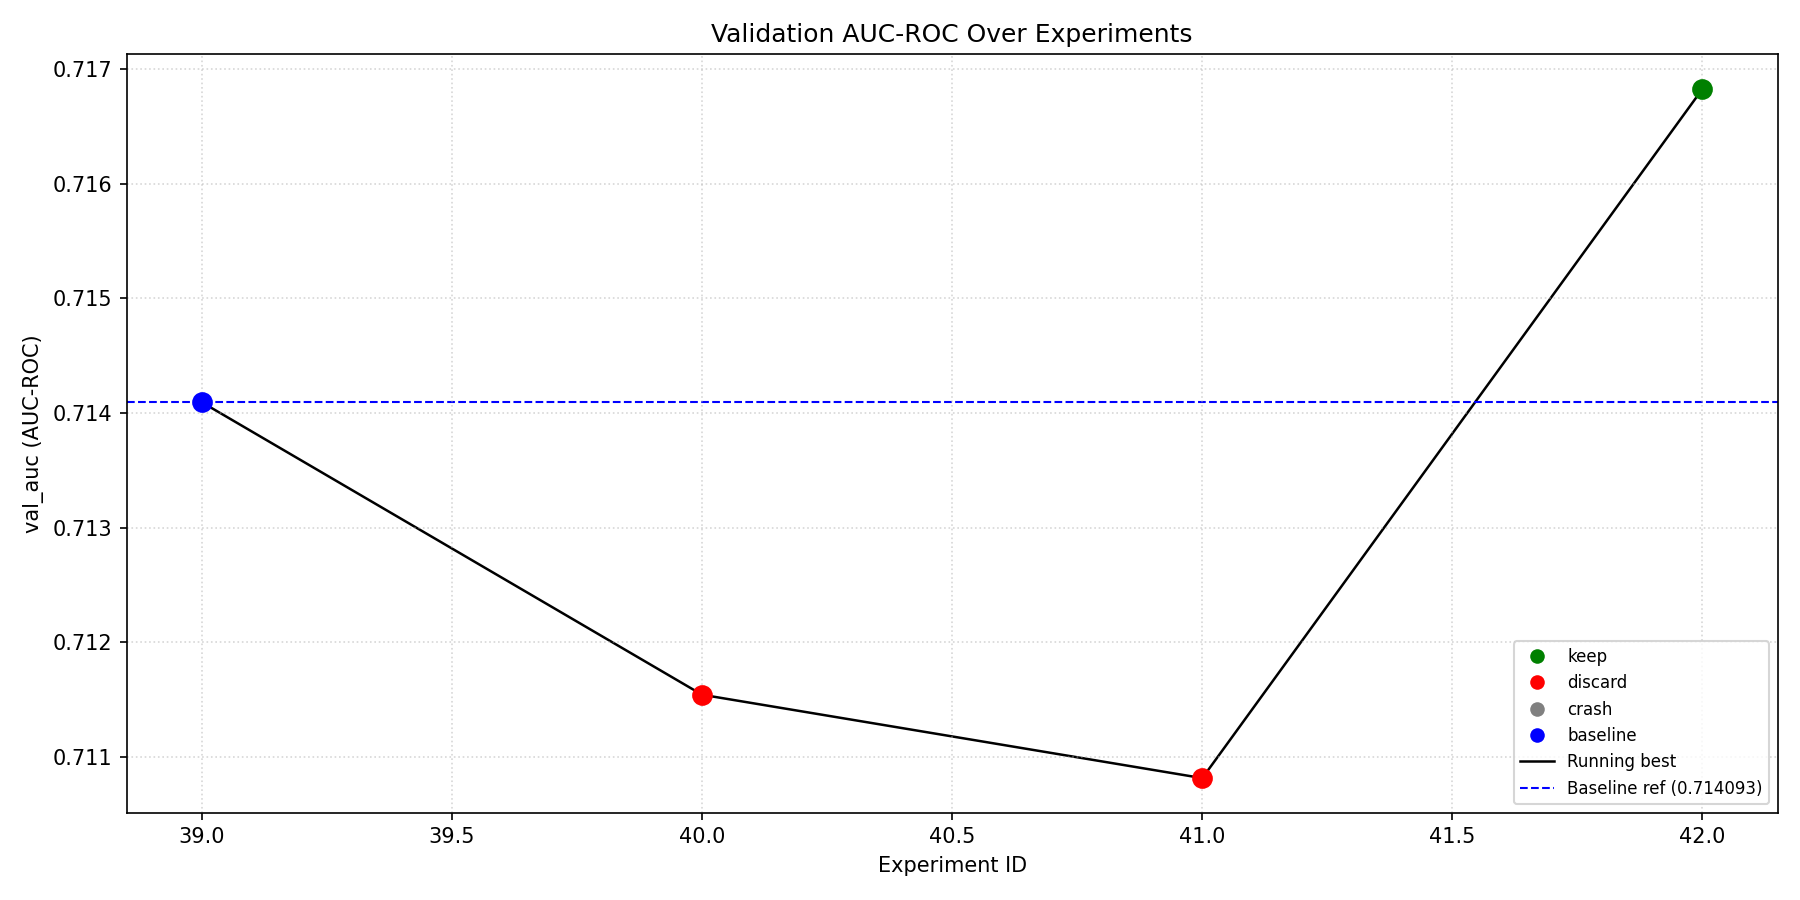
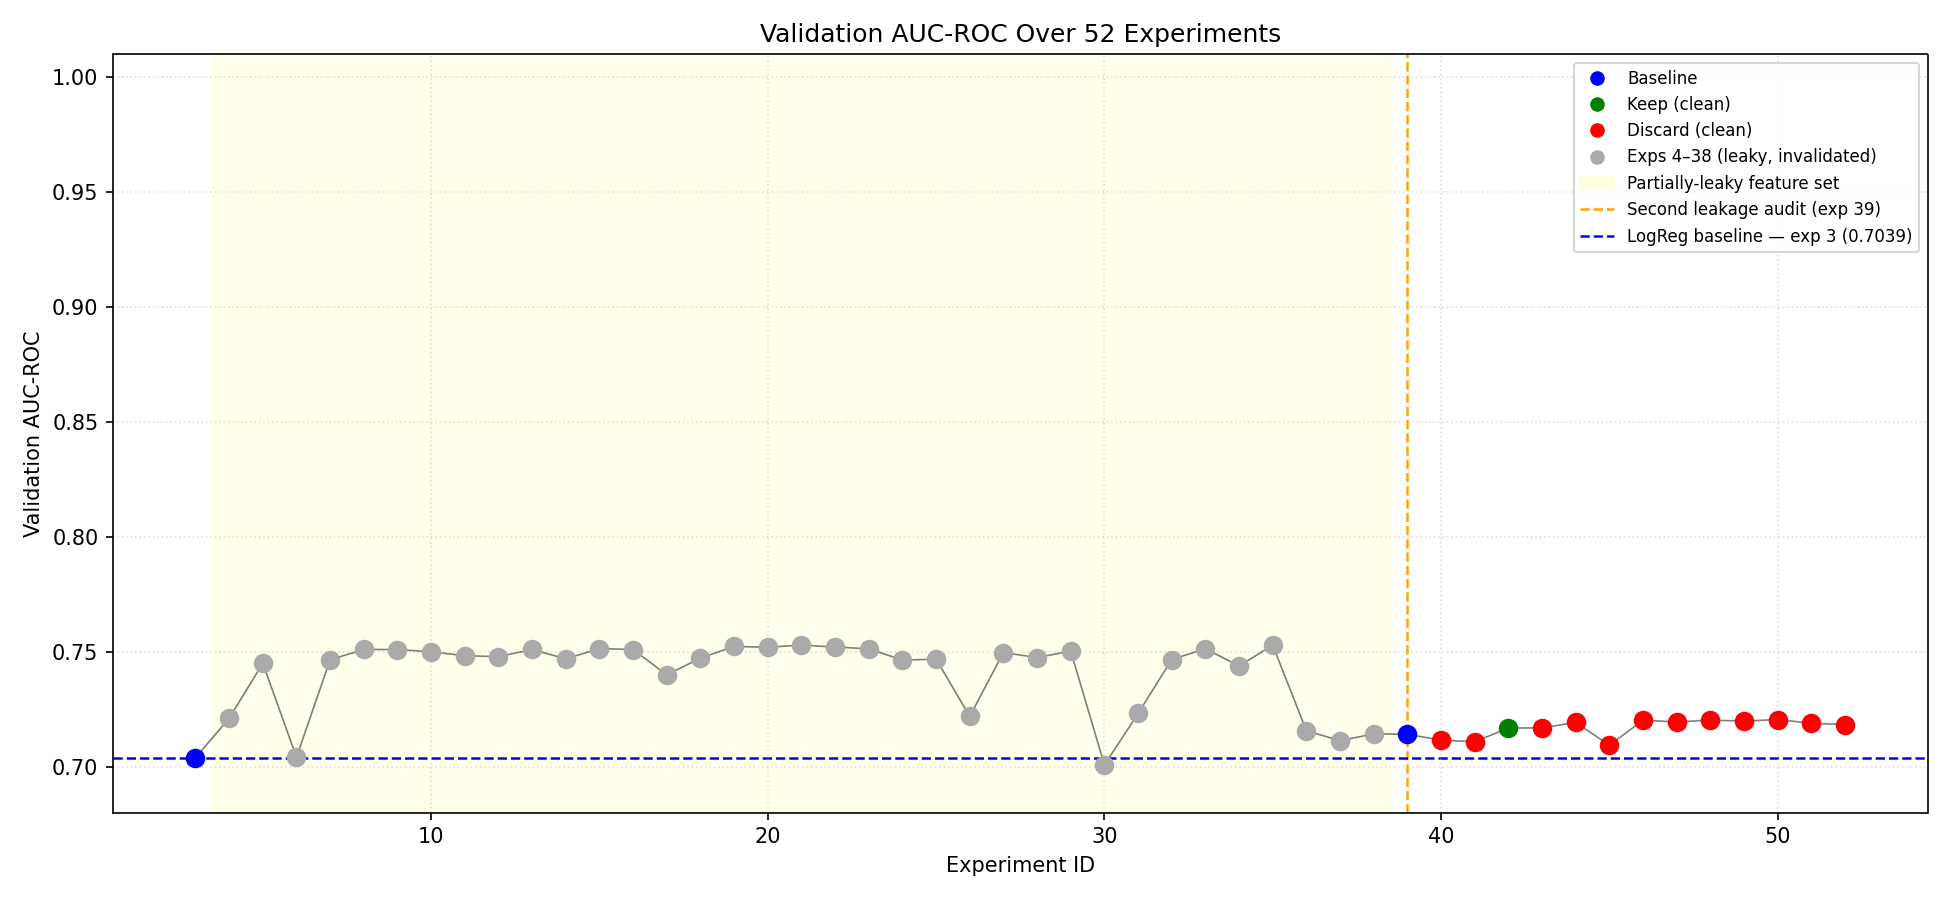
Update final model, results log, and performance plot
- model.py: final GBC (n=600, depth=3, lr=0.05, min_samples_leaf=4, RobustScaler, sentinel imputer)
- results.tsv: complete 52-experiment log including clean re-tuning phase (exps 43-52)
- plot.py: rewritten to show full trajectory with yellow shading for leaky phase (exps 4-38)
- performance.png: regenerated from updated plot.py

diff --git a/plot.py b/plot.py
@@ -1,57 +1,77 @@
 import pandas as pd
 import matplotlib.pyplot as plt
 import matplotlib.lines as mlines
+import matplotlib.patches as mpatches
 
 df = pd.read_csv('results.tsv', sep='\t')
 
-# Use only the LAST baseline as the true baseline reference
-baseline_rows = df[df['status'] == 'baseline']
-true_baseline = baseline_rows.iloc[-1]  # last baseline = leakage-free one
-baseline_val = true_baseline['val_auc']
-baseline_id = true_baseline['experiment_id']
+# Primary baseline: exp 3 (logistic regression, first clean feature set)
+baseline_row = df[df['status'] == 'baseline'].iloc[0]
+baseline_val = baseline_row['val_auc']   # 0.7039
 
-# Only plot from the true baseline onward
-df_plot = df[df['experiment_id'] >= baseline_id].copy()
+# Plot all experiments from exp 3 onward
+df_plot = df[df['experiment_id'] >= baseline_row['experiment_id']].copy()
 
-# Color map by status
-color_map = {
-    'keep':     'green',
-    'discard':  'red',
-    'crash':    'gray',
-    'baseline': 'blue',
-}
+# Experiments 4-38 are on the partially-leaky feature set — mark differently
+LEAKY_RANGE = range(4, 39)
 
-fig, ax = plt.subplots(figsize=(12, 6))
+fig, ax = plt.subplots(figsize=(13, 6))
+
+# Shaded region for partially-leaky experiments
+ax.axvspan(3.5, 38.5, color='lightyellow', alpha=0.6, zorder=0,
+           label='Partially-leaky feature set (exps 4–38)')
+
+# Vertical line marking second leakage audit
+ax.axvline(x=39, color='orange', linestyle='--', linewidth=1.2,
+           label='Second leakage audit (exp 39)', zorder=1)
+
+# Primary baseline reference
+ax.axhline(y=baseline_val, color='blue', linestyle='--', linewidth=1.2,
+           label=f'LogReg baseline — exp 3 ({baseline_val:.4f})', zorder=1)
 
 # Connecting line through all plotted points
 ax.plot(df_plot['experiment_id'], df_plot['val_auc'],
-        color='black', linewidth=1.2, zorder=1, label='Running best')
+        color='black', linewidth=0.8, zorder=2, alpha=0.5)
 
-# Baseline reference horizontal line
-ax.axhline(y=baseline_val, color='blue', linestyle='--', linewidth=1,
-           label=f'Baseline ref ({baseline_val:.6f})', zorder=1)
-
-# Colored dots by status
+# Colored dots — grey out leaky-phase experiments
 for _, row in df_plot.iterrows():
-    color = color_map.get(str(row['status']).lower(), 'gray')
-    ax.scatter(row['experiment_id'], row['val_auc'], color=color, s=80, zorder=2)
+    eid = row['experiment_id']
+    status = str(row['status']).lower()
+    if eid in LEAKY_RANGE:
+        color = '#aaaaaa'   # grey for leaky phase
+    elif status == 'keep':
+        color = 'green'
+    elif status == 'baseline':
+        color = 'blue'
+    elif status == 'discard':
+        color = 'red'
+    else:
+        color = 'gray'
+    ax.scatter(eid, row['val_auc'], color=color, s=70, zorder=3)
 
 # Legend
 legend_handles = [
-    mlines.Line2D([0], [0], marker='o', color='w', markerfacecolor='green', markersize=8, label='keep'),
-    mlines.Line2D([0], [0], marker='o', color='w', markerfacecolor='red',   markersize=8, label='discard'),
-    mlines.Line2D([0], [0], marker='o', color='w', markerfacecolor='gray',  markersize=8, label='crash'),
-    mlines.Line2D([0], [0], marker='o', color='w', markerfacecolor='blue',  markersize=8, label='baseline'),
-    mlines.Line2D([0], [0], color='black', linewidth=1.2, label='Running best'),
-    mlines.Line2D([0], [0], color='blue', linestyle='--', linewidth=1,
-                  label=f'Baseline ref ({baseline_val:.6f})'),
+    mlines.Line2D([0], [0], marker='o', color='w', markerfacecolor='blue',
+                  markersize=8, label='Baseline'),
+    mlines.Line2D([0], [0], marker='o', color='w', markerfacecolor='green',
+                  markersize=8, label='Keep (clean)'),
+    mlines.Line2D([0], [0], marker='o', color='w', markerfacecolor='red',
+                  markersize=8, label='Discard (clean)'),
+    mlines.Line2D([0], [0], marker='o', color='w', markerfacecolor='#aaaaaa',
+                  markersize=8, label='Exps 4–38 (leaky, invalidated)'),
+    mpatches.Patch(color='lightyellow', label='Partially-leaky feature set'),
+    mlines.Line2D([0], [0], color='orange', linestyle='--', linewidth=1.2,
+                  label='Second leakage audit (exp 39)'),
+    mlines.Line2D([0], [0], color='blue', linestyle='--', linewidth=1.2,
+                  label=f'LogReg baseline — exp 3 ({baseline_val:.4f})'),
 ]
-ax.legend(handles=legend_handles, loc='lower right', fontsize=8)
+ax.legend(handles=legend_handles, loc='upper right', fontsize=8)
 
 ax.set_xlabel('Experiment ID')
-ax.set_ylabel('val_auc (AUC-ROC)')
-ax.set_title('Validation AUC-ROC Over Experiments')
-ax.grid(True, linestyle=':', alpha=0.5)
+ax.set_ylabel('Validation AUC-ROC')
+ax.set_title('Validation AUC-ROC Over 52 Experiments')
+ax.grid(True, linestyle=':', alpha=0.4)
+ax.set_ylim(0.68, 1.01)
 
 plt.tight_layout()
 plt.savefig('performance.png', dpi=150)

diff --git a/model.py b/model.py
@@ -12,5 +12,5 @@ def build_model():
     return Pipeline([
         ("imputer", SimpleImputer(strategy="median", missing_values=-1, keep_empty_features=True)),
         ("scaler", RobustScaler()),
-        ("model", GradientBoostingClassifier(n_estimators=300, max_depth=4, max_features='sqrt', random_state=42)),
+        ("model", GradientBoostingClassifier(n_estimators=600, max_depth=3, max_features='sqrt', learning_rate=0.05, min_samples_leaf=4, random_state=42)),
     ])
